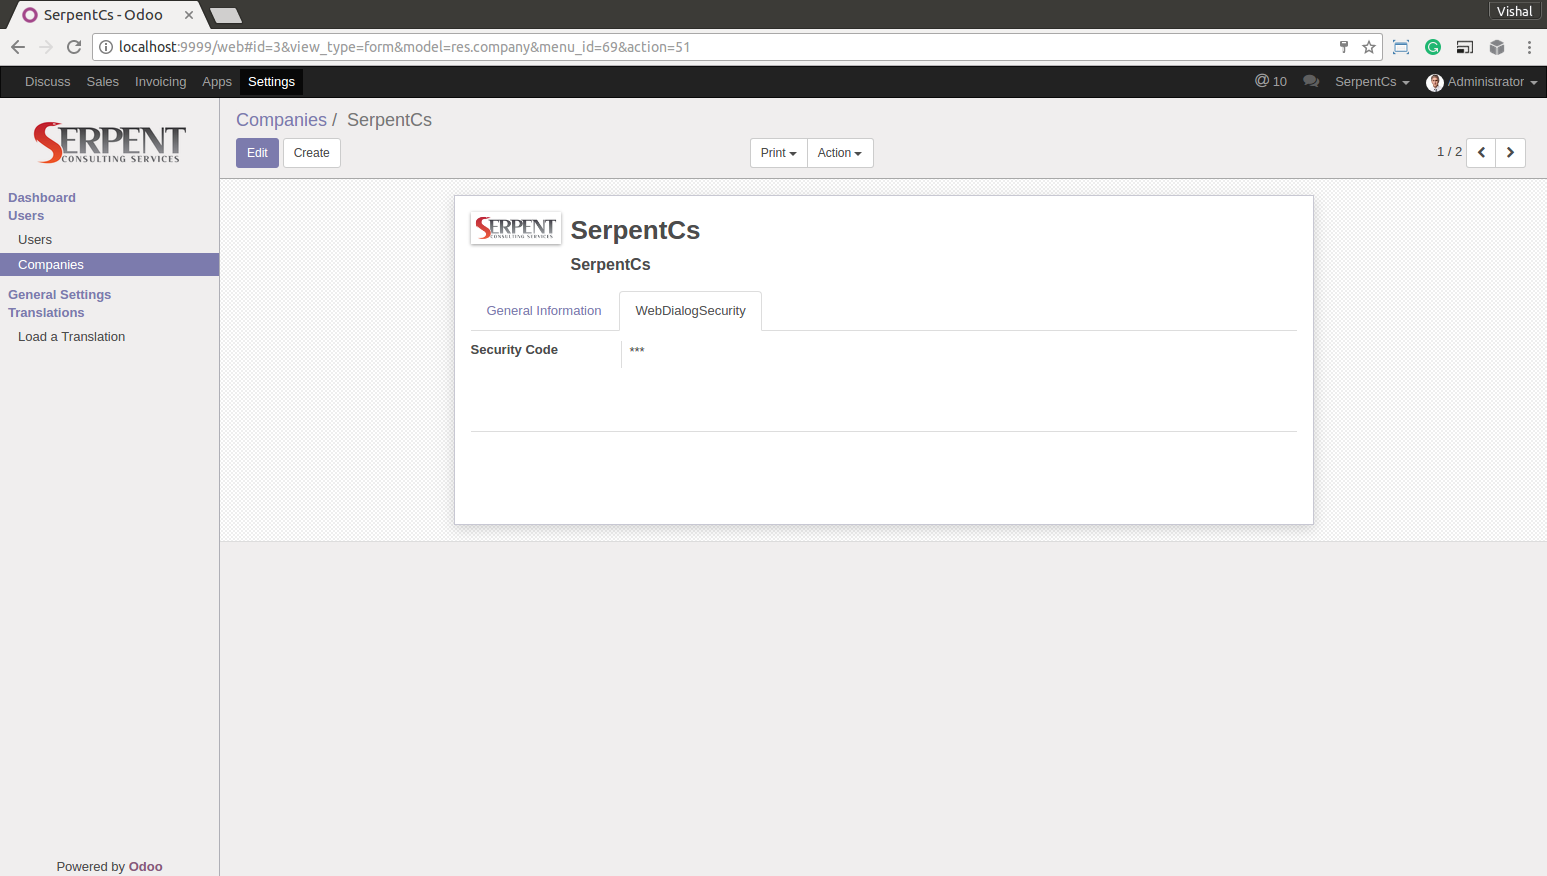
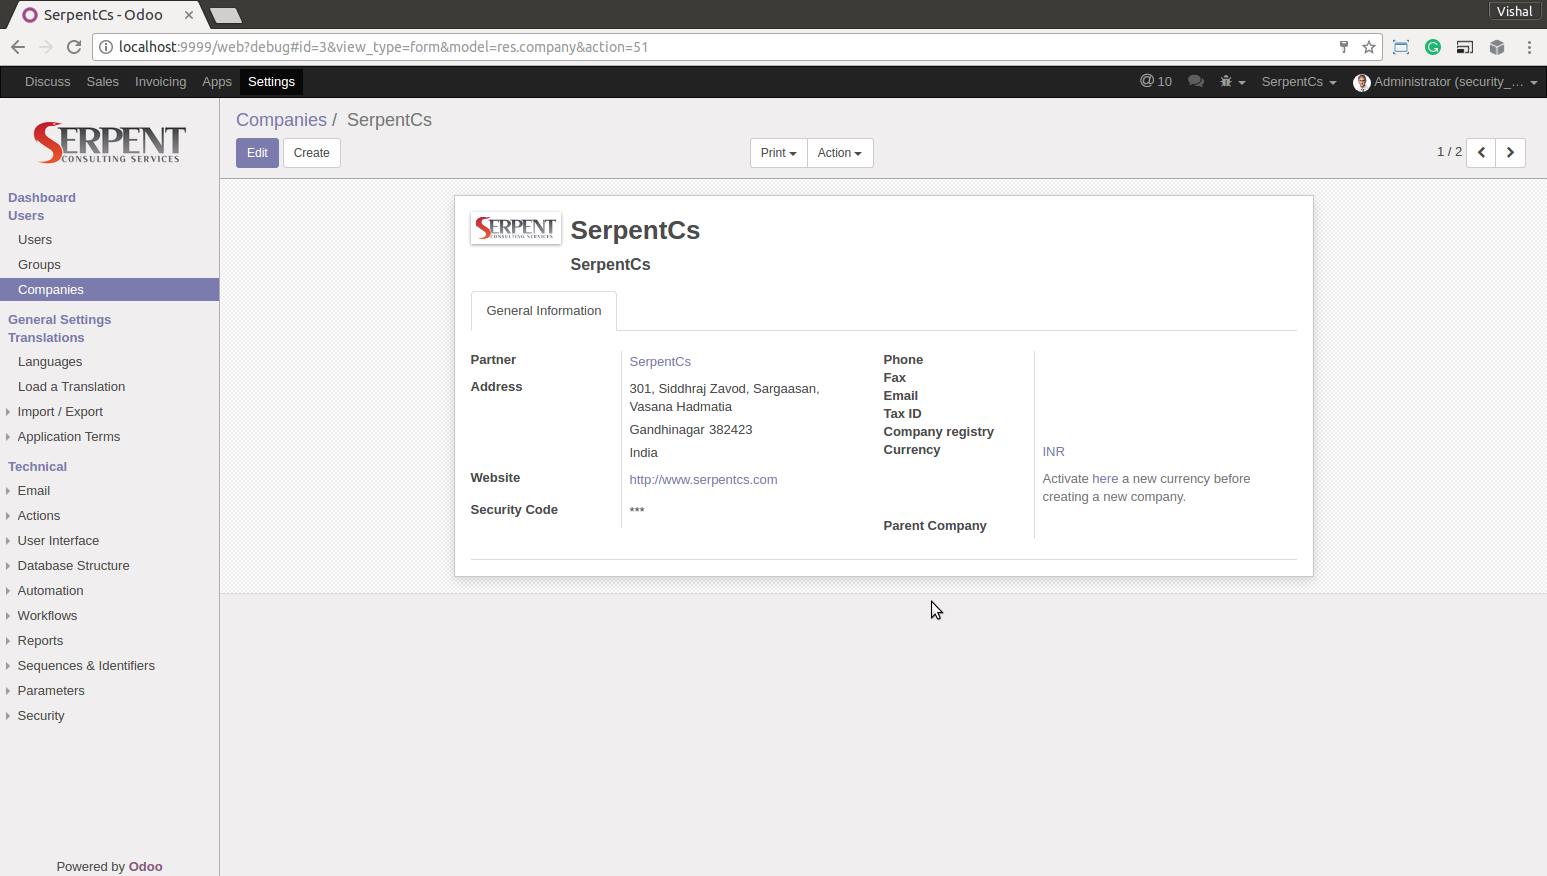
renamed pincode field to security_key, Changed the place of security_key field.

diff --git a/web_security_dialog/static/src/js/web_security_dialog.js b/web_security_dialog/static/src/js/web_security_dialog.js
@@ -84,7 +84,7 @@ odoo.define("web_security_dialog.SecurityDialog",function(require){
                                                curr_obj.close();
                                               self.on_confirmed();
                                            }else {
-                                               Dialog.alert(self, _t("Invalid or Wrong Password!"));
+                                               Dialog.alert(self, _t("Invalid or Wrong Password! Contact your Administrator."));
                                                return;
                                            }
                                        }).fail(function(error) {

diff --git a/web_security_dialog/models/res_company.py b/web_security_dialog/models/res_company.py
@@ -7,7 +7,7 @@ class SecurityDialog(models.Model):
 
     _inherit = 'res.company'
 
-    pincode = fields.Char('Security Code')
+    security_key = fields.Char('Security Code')
 
     @api.multi
     def check_security(self, vals):

diff --git a/web_security_dialog/__manifest__.py b/web_security_dialog/__manifest__.py
@@ -24,7 +24,5 @@
         'views/templates.xml'
     ],
     'qweb': ['static/src/xml/web_security_dialog.xml'],
-    'auto_install': False,
     'installable': True,
-    'application': True,
 }
